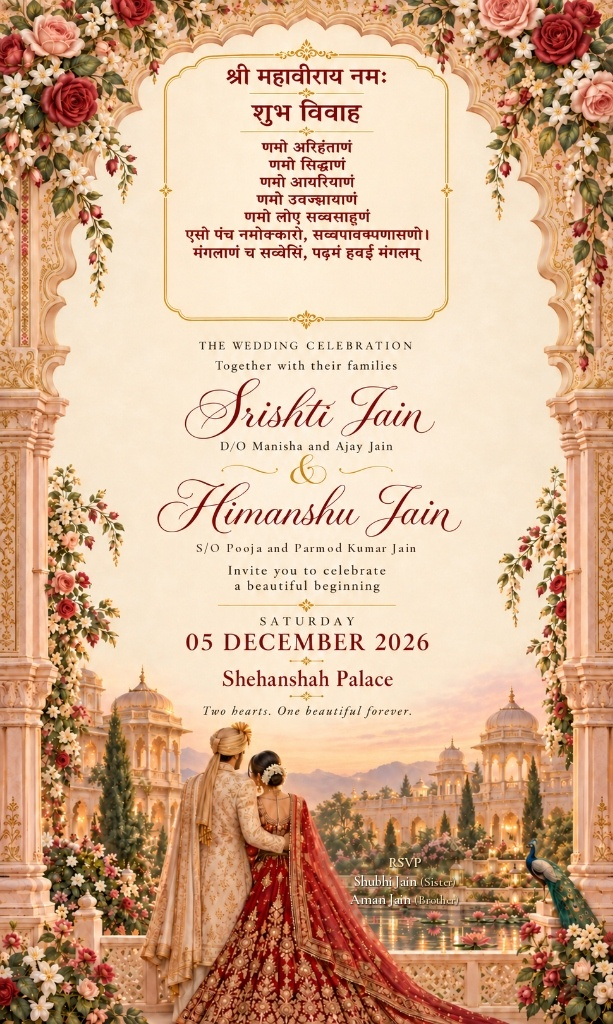
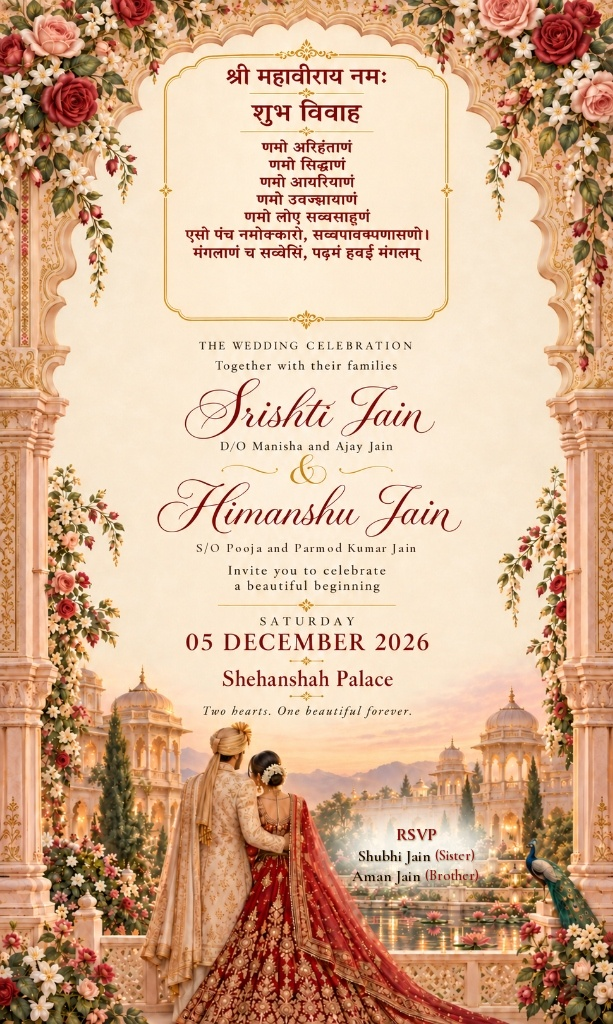
Add grandparents blessings to invitation letter and enhance RSVP visibility on keepsake card

Changed region(s): [[0.5269, 0.7812, 0.8369, 0.9062]]

diff --git a/index.html b/index.html
@@ -206,6 +206,17 @@
 
           <!-- Letter Body Message -->
           <div class="letter-body">
+            <!-- Heavenly Blessings of Grandparents -->
+            <p class="letter-grandparents-blessing">
+              <span class="blessing-salutation">With the heavenly blessings of grandparents</span>
+              <strong class="grandparents-names">
+                <span class="gp-partner">Late Smt. Asha Rani</span>
+                <span class="gp-amp">&amp;</span>
+                <span class="gp-partner">Late Sh. Jayanti Parsad Jain</span>
+              </strong>
+              <span class="blessing-invitation">We cordially invite you to celebrate the marriage of granddaughter</span>
+            </p>
+
             <p class="letter-message">
               To the family who raised us, the relatives who have cheered us on, and the friends who became family—this celebration belongs to you too. As we begin our forever, we would love to have you beside us, filling the day with laughter, warm hugs, and your blessings.
             </p>
@@ -602,7 +613,7 @@
           <div class="card-display-envelope reveal-animated-content" role="region" aria-label="Wedding Invitation Card Keepsake">
             <div id="card-preview-wrap" class="card-art-frame" role="button" tabindex="0" aria-label="Tap to inspect full invitation card in high resolution">
               <img id="card-preview-img"
-                   src="assets/images/invitation_card.png?v=5.2"
+                   src="assets/images/invitation_card.png?v=5.3"
                    alt="Srishti Jain &amp; Himanshu Jain Wedding Invitation Keepsake Card with RSVP Shubhi Jain (Sister) and Aman Jain (Brother)"
                    class="keepsake-card-image"
                    width="613"
@@ -635,7 +646,7 @@
       <div class="lightbox-overlay" id="lightbox-close-overlay"></div>
       <div class="lightbox-content">
         <button id="lightbox-close-btn" class="lightbox-close-btn" type="button" aria-label="Close enlarged card view">&times;</button>
-        <img id="lightbox-img" src="assets/images/invitation_card.png?v=5.2" alt="Enlarged Srishti &amp; Himanshu Wedding Invitation Card with RSVP Shubhi Jain (Sister) and Aman Jain (Brother)" class="lightbox-card-image">
+        <img id="lightbox-img" src="assets/images/invitation_card.png?v=5.3" alt="Enlarged Srishti &amp; Himanshu Wedding Invitation Card with RSVP Shubhi Jain (Sister) and Aman Jain (Brother)" class="lightbox-card-image">
       </div>
     </div>
 

diff --git a/css/main.css b/css/main.css
@@ -1242,6 +1242,57 @@ button {
   margin-bottom: 1.5rem;
 }
 
+.letter-grandparents-blessing {
+  font-family: var(--ff-serif);
+  font-size: clamp(1.05rem, 2vw, 1.25rem);
+  line-height: 1.6;
+  color: #193B55;
+  max-width: 620px;
+  margin: 0 auto 1.85rem;
+  text-align: center;
+  text-wrap: balance;
+}
+
+.letter-grandparents-blessing .blessing-salutation {
+  display: block;
+  font-size: clamp(0.96rem, 1.8vw, 1.1rem);
+  font-style: italic;
+  color: #55799C;
+  margin-bottom: 0.35rem;
+}
+
+.letter-grandparents-blessing .grandparents-names {
+  display: block;
+  font-family: var(--ff-serif);
+  font-weight: 600;
+  font-size: clamp(1.12rem, 2.3vw, 1.32rem);
+  color: #193B55;
+  letter-spacing: 0.015em;
+  margin: 0.35rem 0;
+  line-height: 1.45;
+}
+
+.letter-grandparents-blessing .gp-partner {
+  display: inline-block;
+  white-space: nowrap;
+}
+
+.letter-grandparents-blessing .gp-amp {
+  display: inline-block;
+  color: #C5AD79;
+  font-style: italic;
+  font-weight: 400;
+  margin: 0 0.25rem;
+}
+
+.letter-grandparents-blessing .blessing-invitation {
+  display: block;
+  font-size: clamp(0.96rem, 1.8vw, 1.1rem);
+  font-style: italic;
+  color: #55799C;
+  margin-top: 0.35rem;
+}
+
 .letter-message {
   font-family: var(--ff-body);
   font-size: clamp(1.1rem, 2vw, 1.25rem);

diff --git a/js/config.js b/js/config.js
@@ -41,6 +41,9 @@ const WEDDING = Object.freeze({
   },
 
   // ── Parents & Family details ───────────────────────────────────────────
+  grandparents: {
+    bride: 'Late Smt. Asha Rani and Late Sh. Jayanti Parsad Jain',
+  },
   parents: {
     bride: 'D/O Manisha and Ajay Jain',
     groom: 'S/O Pooja and Parmod Kumar Jain',
@@ -51,6 +54,7 @@ const WEDDING = Object.freeze({
     heroEyebrow:     'A Wedding Celebration',
     heroTagline:     'Saturday · 5 December 2026',
     familyHeading:   'Our happiest day, made complete by you.',
+    grandparentsBlessing: 'With the heavenly blessings of grandparents Late Smt. Asha Rani and Late Sh. Jayanti Parsad Jain, We cordially invite you to celebrate the marriage of granddaughter',
     familyMessage:   'To the family who raised us, the relatives who have cheered us on, and the friends who became family—this celebration belongs to you too. As we begin our forever, we would love to have you beside us, filling the day with laughter, warm hugs, and your blessings.',
     familyClosing:   'With love, Srishti Jain & Himanshu Jain',
     journeyReveals: [

diff --git a/js/card.js b/js/card.js
@@ -35,7 +35,7 @@
   // Background artwork — user uploaded master card with Shehanshah Palace & cursive calligraphy
   const bgImg  = new Image();
   bgImg.crossOrigin = 'anonymous';
-  bgImg.src    = 'assets/images/invitation_card.png?v=5.2';
+  bgImg.src    = 'assets/images/invitation_card.png?v=5.3';
   let bgLoaded = false;
 
   function renderCard() {
